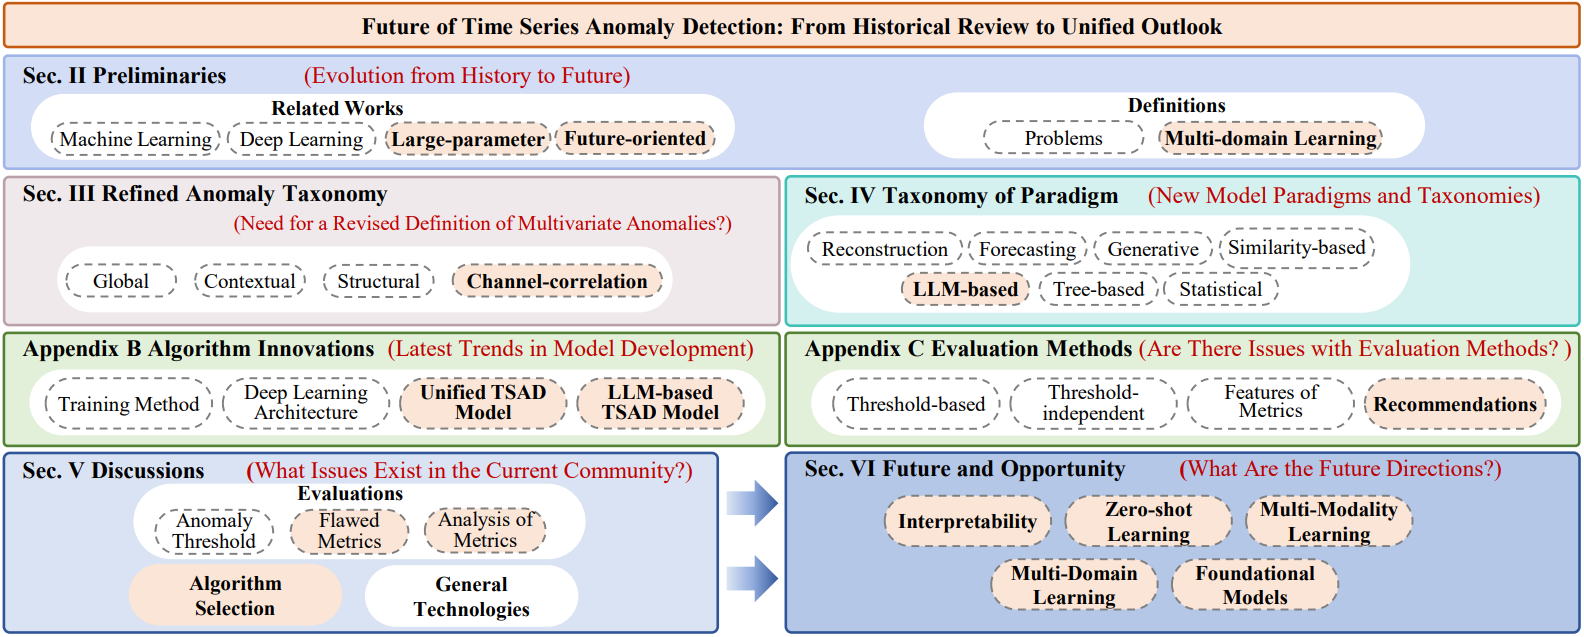
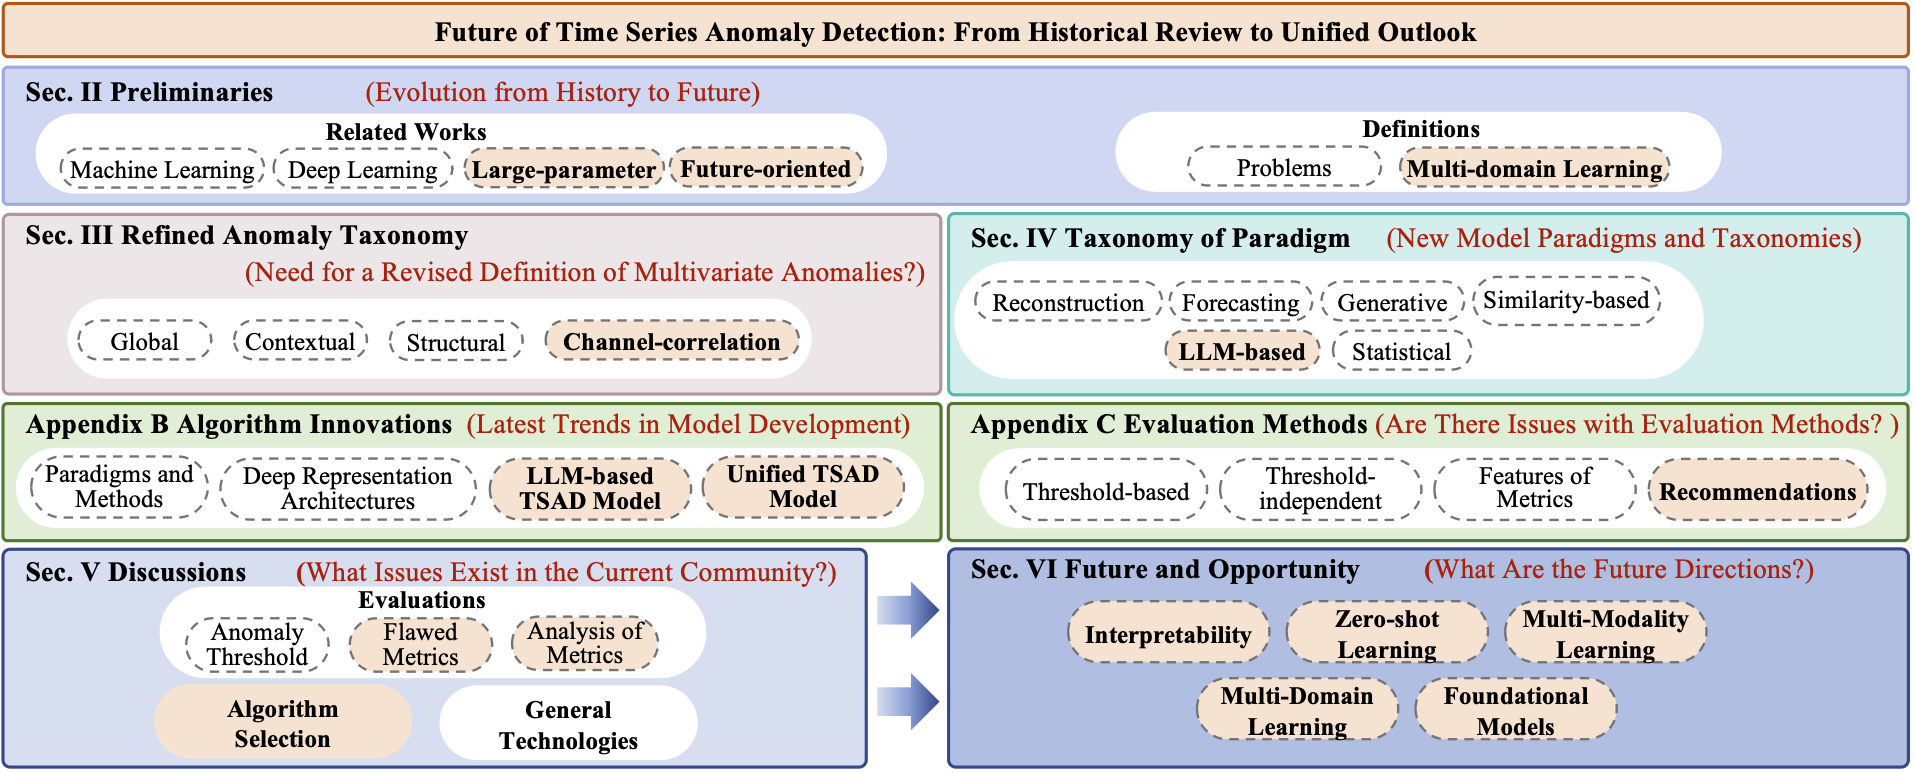
upd res

diff --git a/docs/index.html b/docs/index.html
@@ -74,8 +74,7 @@
               <div class="publication-links">
                 <!-- Arxiv PDF link -->
                 <span class="link-block">
-                  <a href="static/pdfs/XXXX" target="_blank"
-                    class="external-link button is-normal is-rounded is-dark">
+                  <a href="static/pdfs/XXXX" target="_blank" class="external-link button is-normal is-rounded is-dark">
                     <span class="icon">
                       <i class="fas fa-file-pdf"></i>
                     </span>
@@ -136,7 +135,7 @@
     </div>
   </section>
 
-  
+
 
   <!-- Paper abstract -->
   <section class="section hero is-light">
@@ -176,11 +175,11 @@
   <!-- Your image here -->
   <div class="item">
     <p align="center">
-    <img width="1000" src="static/images/fw.png" alt="framework"/>
+      <img width="1000" src="static/images/fw.png" alt="framework" />
     <h2 class="subtitle has-text-centered">
       The organization of the paper.
-  </h2>
-  <p>
+    </h2>
+    <p>
   </div>
 
   <!-- Image carousel -->
@@ -222,11 +221,7 @@
               </li>
               <li>
                 <p>Similarity-based</p>
-                <code>intitle:(("time series" OR "temporal" OR "time-series" OR "timeseries") AND ("anomaly" OR outlier)) AND ("similarity" OR "dissimilarity" OR "contrastive learning" OR "one-class" OR "one class")</code>
-              </li>
-              <li>
-                <p>Tree-based</p>
-                <code>intitle:(("time series" OR "temporal" OR "time-series" OR "timeseries") AND ("anomaly" OR outlier)) AND "tree"</code>
+                <code>intitle:(("time series" OR "temporal" OR "time-series" OR "timeseries") AND ("anomaly" OR outlier)) AND ("similarity" OR "dissimilarity" OR "contrastive learning" OR "one-class" OR "one class" OR "tree")</code>
               </li>
               <li>
                 <p>Statistical model</p>
